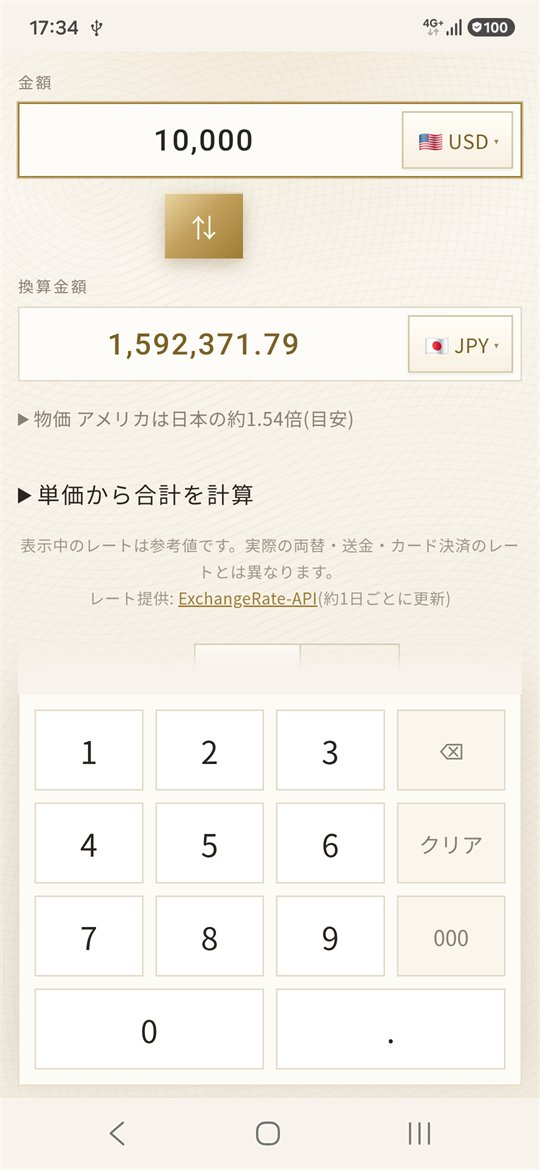
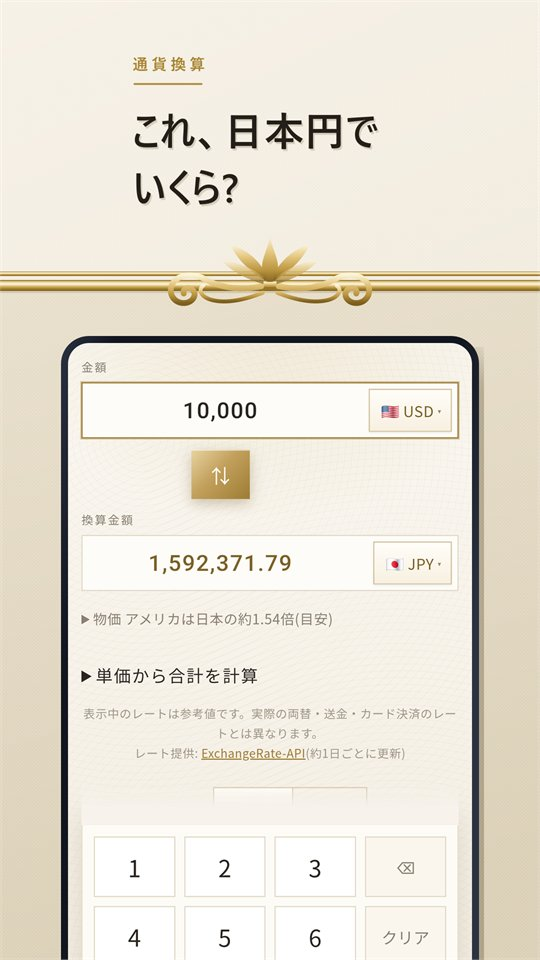
KAWASEの画像を新しいストア用の3枚に差し替え
新しい画像は画面写真そのものではなく、見出し文と飾り罫が入った1枚絵で、
絵の中にすでにスマホの枠が描き込まれています。そのため、これまでの
.phone(サイト側でスマホの枠を重ねる入れ物)をそのまま使うと枠が二重になり、
縦横の比率も違うので上下が切れてしまいます。

枠を重ねない .card という入れ物を新しく用意して、比率(9:16)のまま
切らずに並べるようにしました。copy-assets.ps1 の参照先も新しい
ファイル名に更新しています。

diff --git a/kawase/index.html b/kawase/index.html
@@ -72,9 +72,12 @@ if (window.matchMedia && !window.matchMedia('(prefers-reduced-motion: reduce)').
   <section class="section">
     <div class="wrap reveal">
       <div class="shots">
-        <div class="phone"><img src="/assets/apps/kawase/shot-01.jpg" alt="大きな電卓キーで金額を入れて通貨換算している画面" width="540" height="1170" loading="lazy"></div>
-        <div class="phone"><img src="/assets/apps/kawase/shot-02.png" alt="単価と個数から合計を計算している画面" width="540" height="1170" loading="lazy"></div>
-        <div class="phone"><img src="/assets/apps/kawase/shot-03.jpg" alt="現地の物価を日本と並べて比べている画面" width="540" height="1170" loading="lazy"></div>
+        <!-- この3枚は画面写真そのものではなく、見出し文と飾り罫が入った1枚絵です。
+             絵の中にスマホの枠が描き込まれているので、.phone(枠を重ねる入れ物)ではなく
+             .card(枠を重ねない入れ物)を使っています。 -->
+        <div class="card"><img src="/assets/apps/kawase/shot-01.jpg" alt="「これ、日本円でいくら?」の見出しと、10,000 USD を日本円に換算している画面" width="540" height="960" loading="lazy"></div>
+        <div class="card"><img src="/assets/apps/kawase/shot-02.png" alt="「単価 × 個数をまとめて換算」の見出しと、単価と個数から合計を計算している画面" width="540" height="960" loading="lazy"></div>
+        <div class="card"><img src="/assets/apps/kawase/shot-03.jpg" alt="「安いのか高いのか物価で分かる」の見出しと、現地の物価を日本と並べて比べている画面" width="540" height="960" loading="lazy"></div>
       </div>
       <p class="small dim" style="margin-top:12px">横にスワイプすると、ほかの画面も見られます</p>
     </div>

diff --git a/assets/style.css b/assets/style.css
@@ -704,6 +704,19 @@ a.row:hover .row-go, a.row:focus-visible .row-go { color: var(--accent); }
   scrollbar-color: var(--lip) transparent;
 }
 .shots .phone { flex: 0 0 auto; scroll-snap-align: center; width: clamp(178px, 44vw, 224px); }
+
+/* 見出し文と飾り罫が最初から描き込まれている1枚絵(ストア用の宣伝画像)を
+   並べるための入れ物です。絵の中にすでにスマホの枠が描かれているので、
+   .phone のような枠は重ねません。縦横の比率もそのまま、切らずに出します。 */
+.shots .card {
+  flex: 0 0 auto;
+  scroll-snap-align: center;
+  width: clamp(206px, 54vw, 276px);
+  border-radius: 8px;
+  overflow: hidden;
+  box-shadow: 0 18px 42px rgba(0,0,0,0.55), inset 0 0 0 1px rgba(255,255,255,0.05);
+}
+.shots .card img { display: block; width: 100%; height: auto; }
 .shots::-webkit-scrollbar, .phones::-webkit-scrollbar { height: 7px; }
 .shots::-webkit-scrollbar-thumb, .phones::-webkit-scrollbar-thumb { background: var(--lip); }
 .shots::-webkit-scrollbar-track, .phones::-webkit-scrollbar-track { background: var(--incise); }
